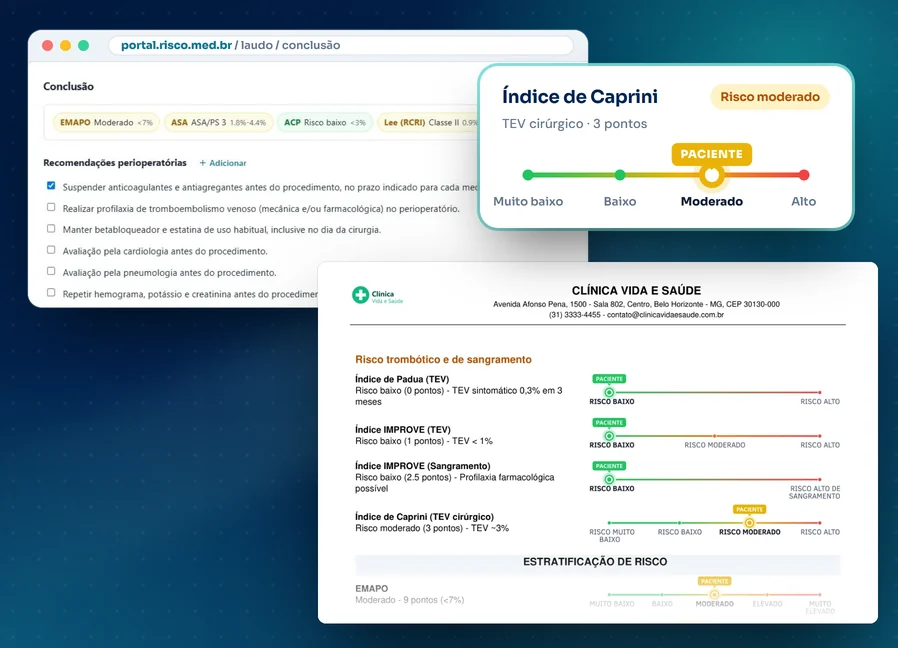
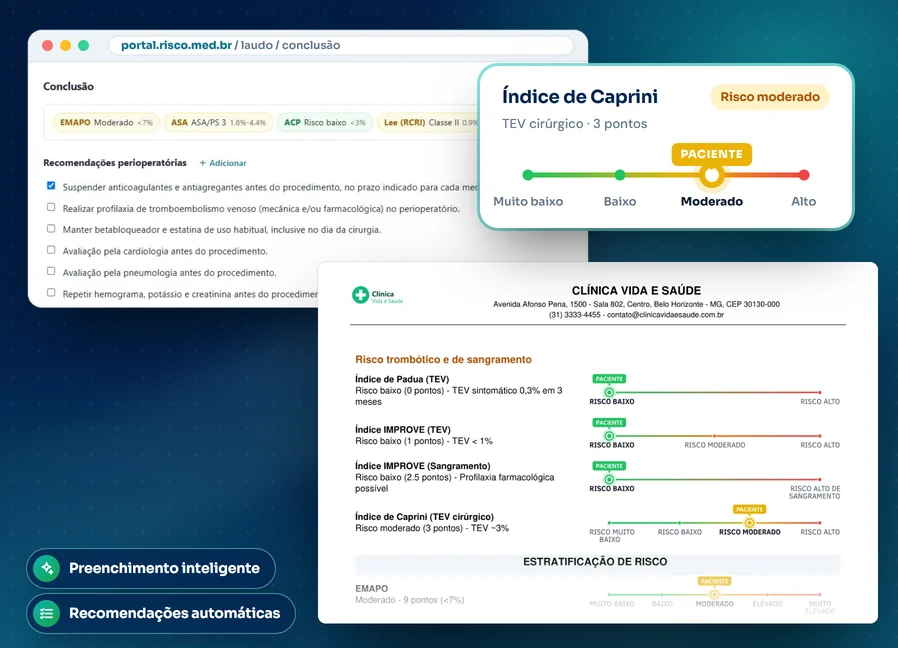
site imagens

Changed region(s): [[0.0312, 0.8333, 0.3118, 0.9877]]

diff --git a/index.html b/index.html
@@ -330,7 +330,7 @@
 }
     </script>
 
-    <link rel="preload" as="image" href="/assets/laudo-risco-cirurgico-riscomed.webp?v=5" imagesrcset="/assets/laudo-risco-cirurgico-riscomed-640.webp?v=5 640w, /assets/laudo-risco-cirurgico-riscomed.webp?v=5 898w, /assets/laudo-risco-cirurgico-riscomed-1796.webp?v=5 1796w" imagesizes="(max-width: 1024px) calc(100vw - 32px), 640px" fetchpriority="high">
+    <link rel="preload" as="image" href="/assets/laudo-risco-cirurgico-riscomed.webp?v=7" imagesrcset="/assets/laudo-risco-cirurgico-riscomed-640.webp?v=7 640w, /assets/laudo-risco-cirurgico-riscomed.webp?v=7 898w, /assets/laudo-risco-cirurgico-riscomed-1796.webp?v=7 1796w" imagesizes="(max-width: 1024px) calc(100vw - 32px), 640px" fetchpriority="high">
 
     <!-- CSS -->
     <link rel="stylesheet" href="/assets/styles.min.css?v=433df284">
@@ -419,7 +419,7 @@
             
             <div class="hero-visual">
                 <div class="mockup-container">
-                    <img src="/assets/laudo-risco-cirurgico-riscomed.webp?v=5" srcset="/assets/laudo-risco-cirurgico-riscomed-640.webp?v=5 640w, /assets/laudo-risco-cirurgico-riscomed.webp?v=5 898w, /assets/laudo-risco-cirurgico-riscomed-1796.webp?v=5 1796w" sizes="(max-width: 1024px) calc(100vw - 32px), 640px" width="898" height="648" alt="Tela de conclusão do Risco MED, com índices calculados, recomendações e veredito sugerido, e o laudo gerado com a ilustração do risco de cada índice (dados fictícios)" class="mockup-image" loading="eager" fetchpriority="high">
+                    <img src="/assets/laudo-risco-cirurgico-riscomed.webp?v=7" srcset="/assets/laudo-risco-cirurgico-riscomed-640.webp?v=7 640w, /assets/laudo-risco-cirurgico-riscomed.webp?v=7 898w, /assets/laudo-risco-cirurgico-riscomed-1796.webp?v=7 1796w" sizes="(max-width: 1024px) calc(100vw - 32px), 640px" width="898" height="648" alt="Tela de conclusão do Risco MED, com índices calculados, recomendações e veredito sugerido, e o laudo gerado com a ilustração do risco de cada índice; destaques: preenchimento inteligente e recomendações automáticas (dados fictícios)" class="mockup-image" loading="eager" fetchpriority="high">
                     <div class="mockup-badge badge-1">
                         <span class="badge-number">23</span>
                         <span class="badge-text">Índices</span>
